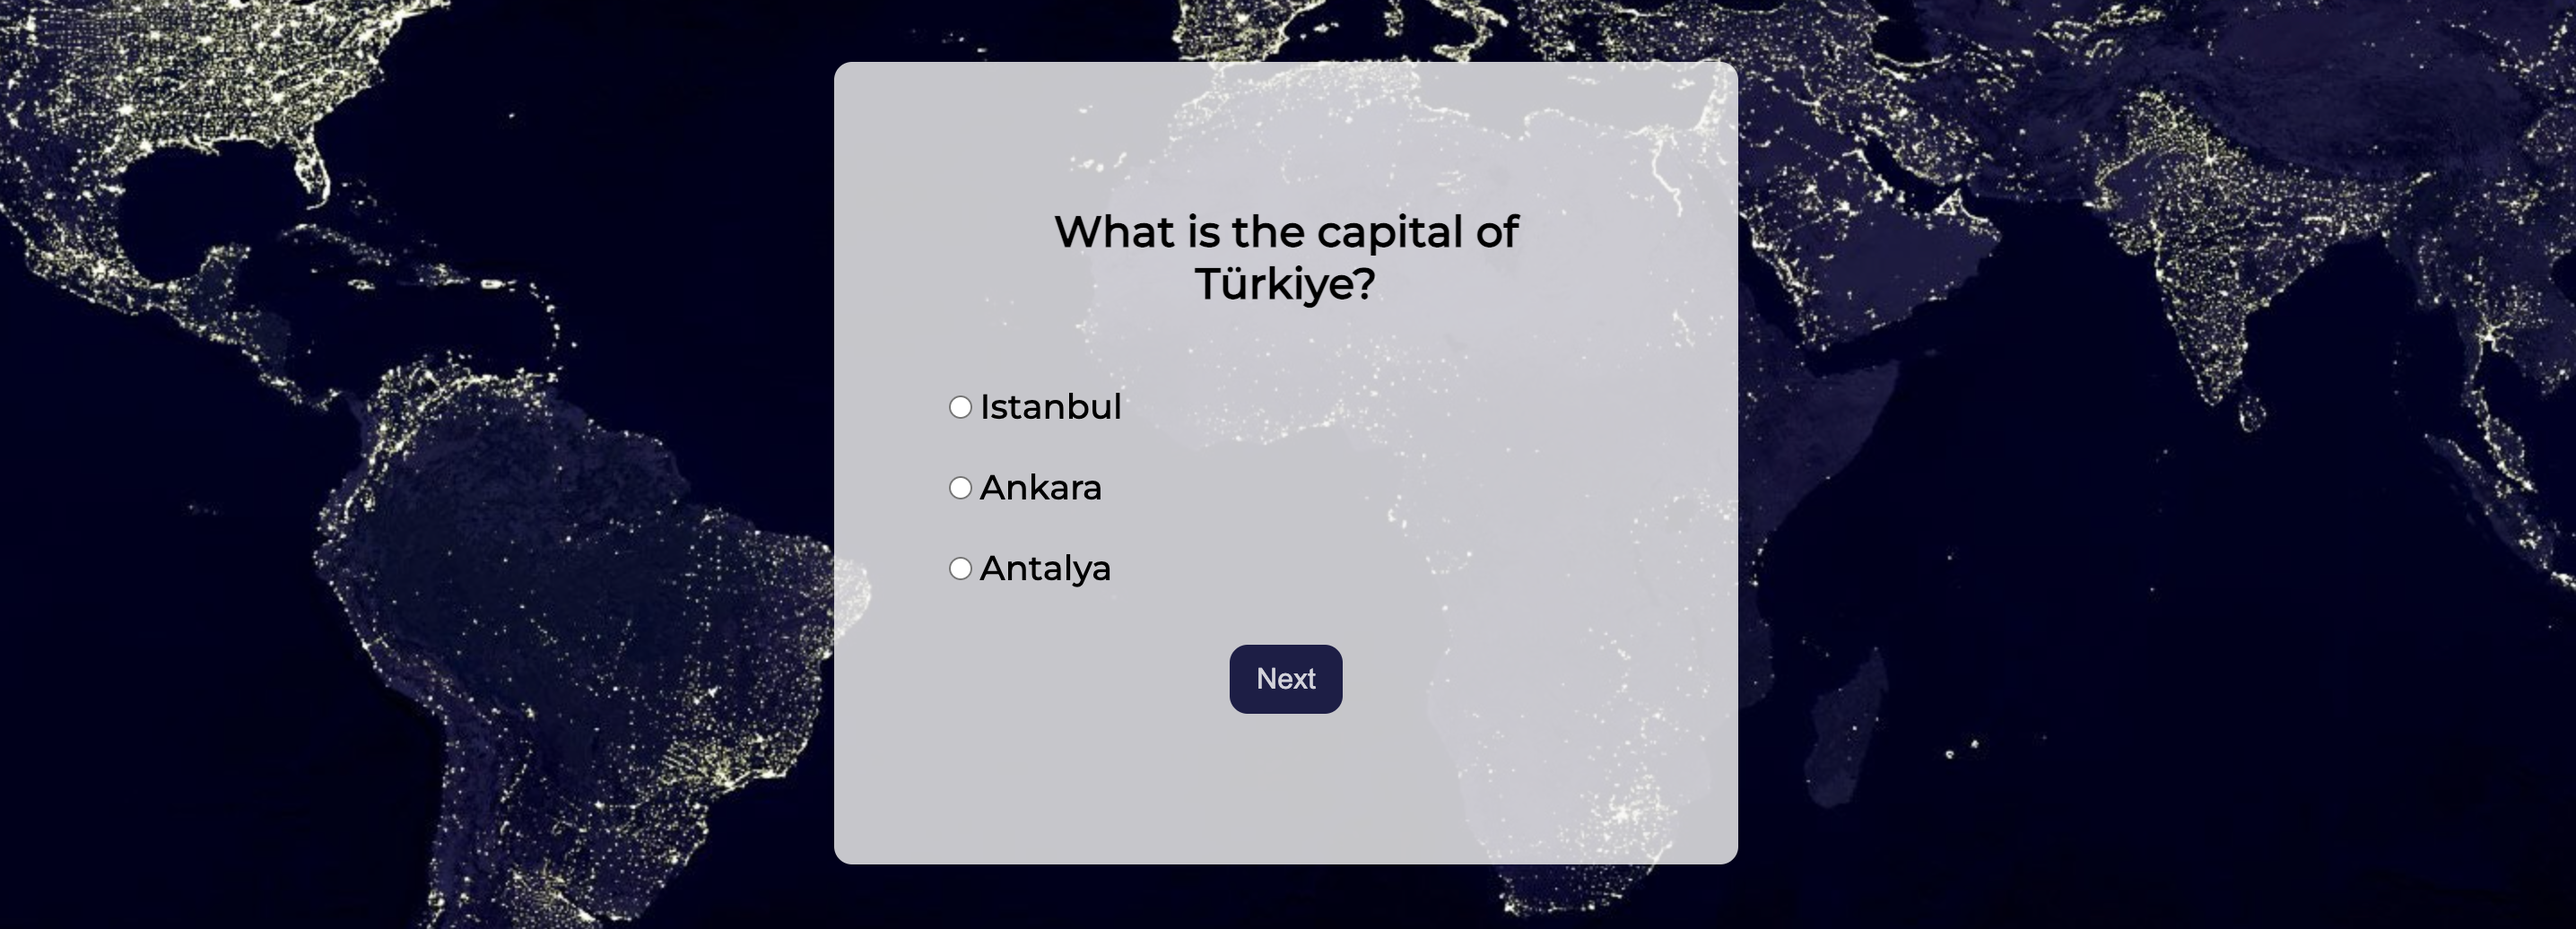
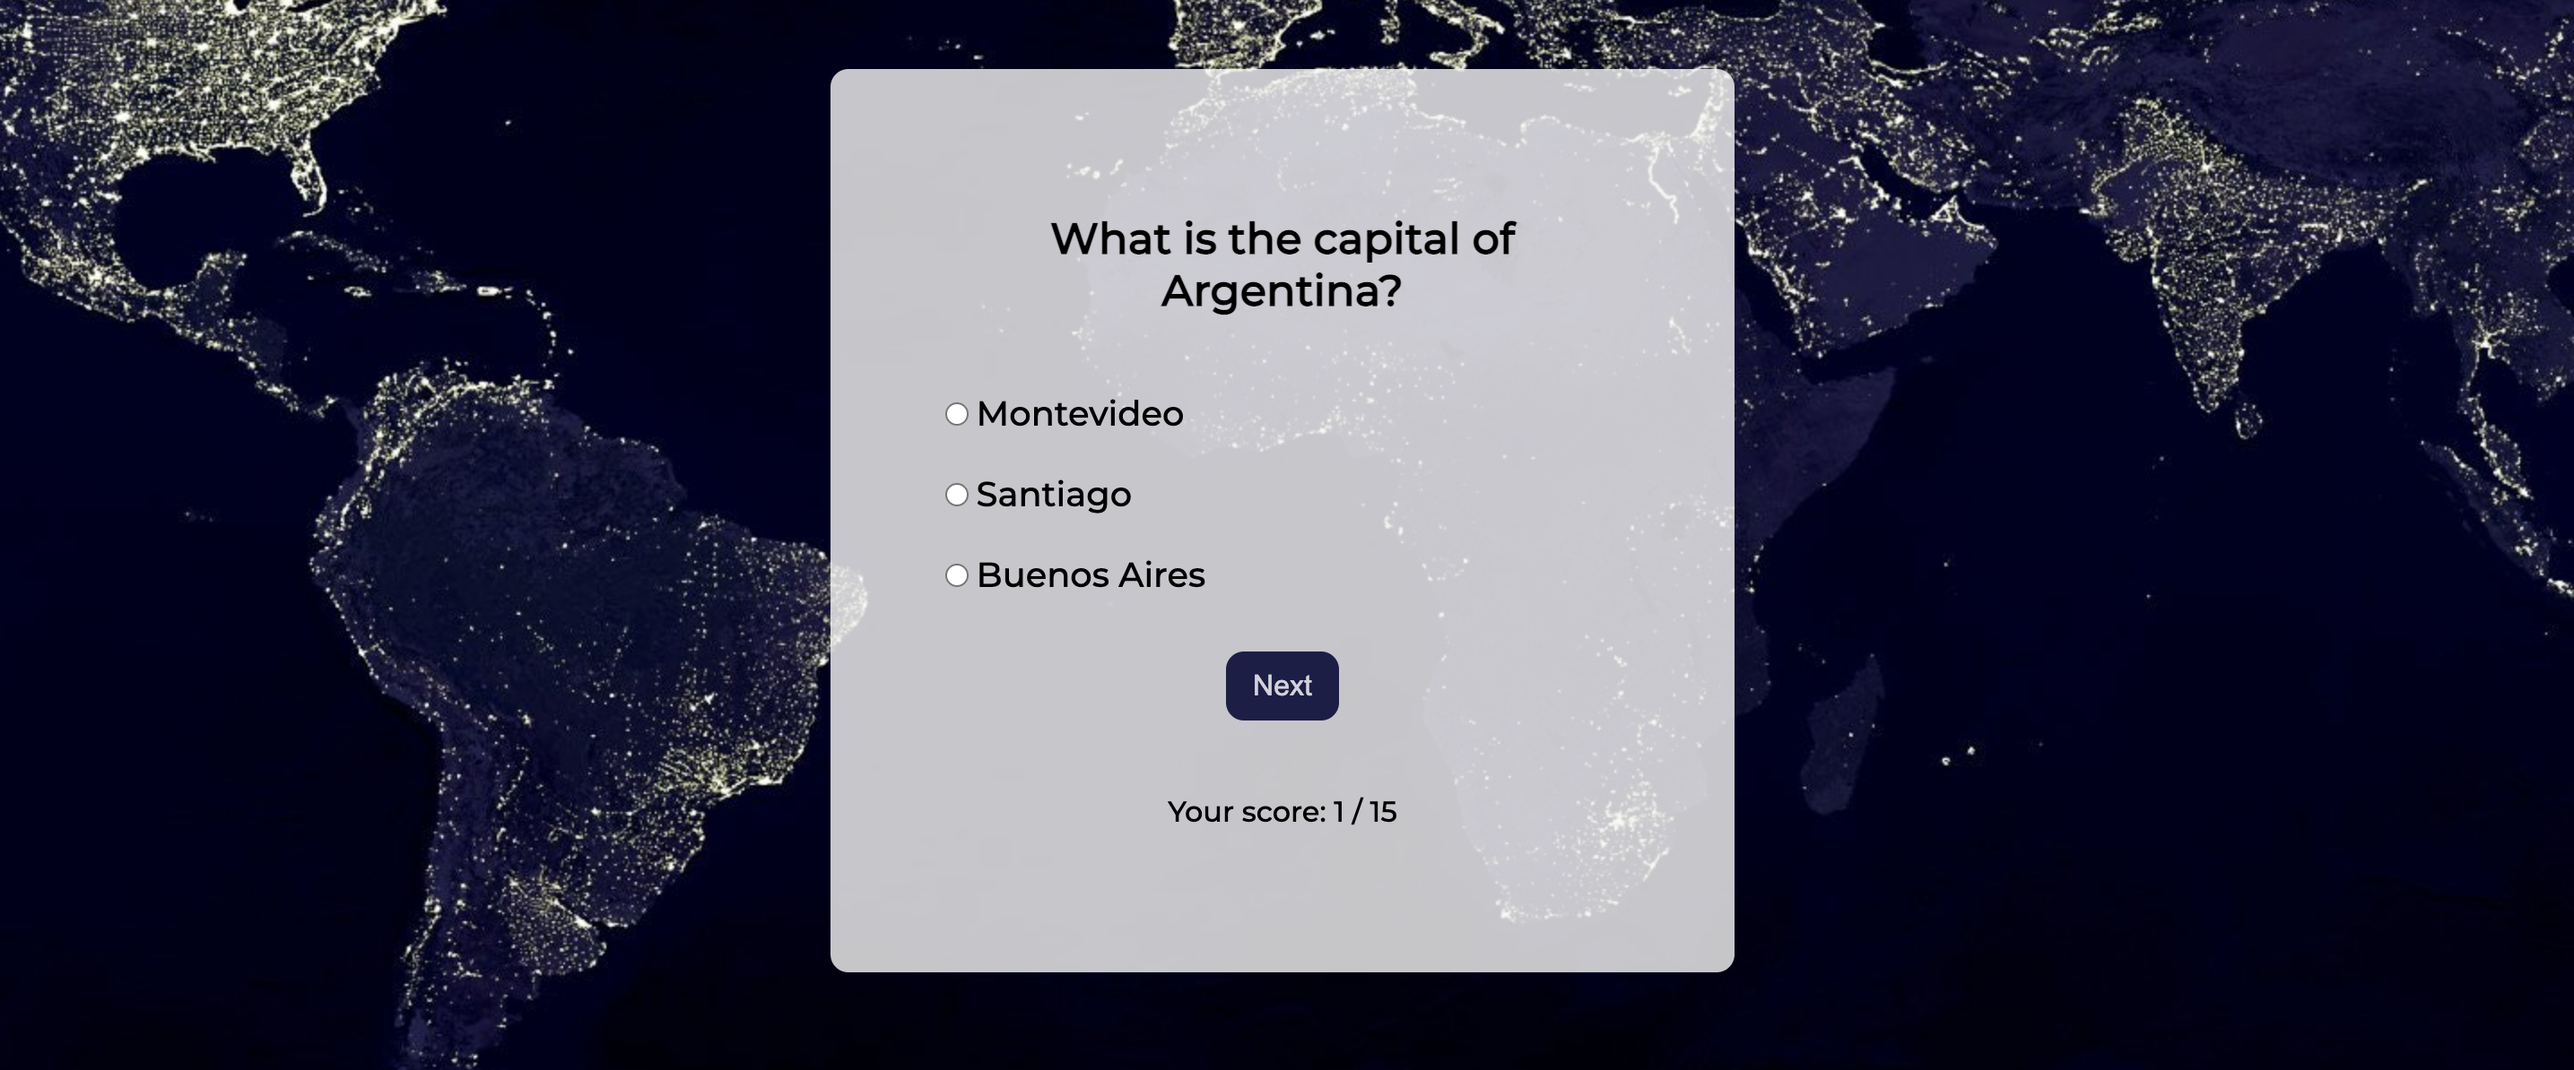
docs: add credits

diff --git a/README.md b/README.md
@@ -14,23 +14,18 @@ The web application is designed to be responsible on a range of devices.
 
 ### User stories
 
-    a. As a User, I want to understand the purpose of the site.
-    
-    b. As a User, I want to see clearly written instructions that explain what to do.
-
-    c. As a User, I want to quickly understand how to play.
-
-    d. As a User, I also want to easily navigate the website.
-
-    e. As a User, I want to see my score points.
-
-    f.  As a User, I want to understand how to play the quiz again.
+1. As a User, I want to understand the purpose of the website.
+2. As a User, I want to see clearly written instructions which explain what to do.
+3. As a User, I want to quickly understand how to play.
+4. As a User, I also want to easily navigate the web application.
+5. As a User, I want to see my score points.
+6. As a User, I want to be able to play the quiz again.
 
    
 ## User Experience Design (UXD)
-+ **Strategy Plane**. A quiz for enterntainment which provides users with the opportunity to check their knowledge of capitals.
-+ **Scope Plane**. The title of the quiz, instructions, input for username and the start button. After clicking "Start" button the user sees one question with three options at a time (which helps not to distract). There is "Next" button under under the option. The "Next" button submits the answer and opens the next question.
-+ **Structure Plane**. The introduction window contains simple clear instructions how to start and rules how to play. 
++ **Strategy Plane**. A quiz for enterntainment which also provides users with the opportunity to check their knowledge of the capitals.
++ **Scope Plane**. The title of the quiz, instructions, input for username and the start button. There is "Next" button under under the option. The "Next" button submits the answer and opens the next question. There are scores under the "Next" button. After the 15th question the user can see a panel with score points. There is also a "Play again" button which reloads the quiz.
++ **Structure Plane**. The introduction window contains simple clear instructions how to start and the rules how to play. After entering username and clicking "Start" button the user sees one question with three options at a time. The "Next" button submits the answer and opens the next question. Right under the button the user can see their score points along the way. After answering the 15th question the user can see a panel with their username and score points. There is also a "Play again" button which reloads the quiz.
 + **Skeleton Plane**. 
 ![Introduction with instructions wireframe](/docs/intro-wireframe.png)
 ![Quiz questions wireframe](/docs/quiz-wireframe.png)
@@ -49,37 +44,39 @@ Colors: *taken from the background image*
 
 ### Quiz Title
 + The Quiz Title is located at the top of the page. It gives a clear idea of what is the web application about. 
-+ The font and the color made it easy to read.
++ The font and the color make it easy to read.
 
 ![A screenshot of title](/docs/heading.png)
 
 ### Background Image
-+ The background image is a photo of the Earth at night. It helps the user to switch to...
++ The background image is a photo of the Earth at night. It helps the user to switch to set the right state of mind and to focus on the quiz topic.
 
 ![The background image](/assets/images/background-image.jpg)
 
 ### Instructions
-+ This section gives detailed instructions and asks to enter username. 
++ This section gives detailed instructions and asks users to enter their username. 
 + Users are able to start the quiz only after entering username.
 
 ![A screenshot of introduction and instructions](/docs/instructions.png)
 
 ### Quiz Questions
 + This section appears instead of instructions after users enter their username and click "Start" button.
-+ Here the user can read a question and choose the answer by taping one of the options below. 
-+ After choosing an answer and clicking "Next" button the user can see the next question.
++ Here the user can read a question and choose the answer by taping one of the options below the question. 
++ After choosing an answer and clicking "Next" button the user can see the next question and their current score points under the button.
 
 ![A screenshot of the first question of the quiz](/docs/quiz-question.png)
 
 ### Results
-+ This section shows user's username and their score points.
-+ There is also "Play again" button which enables the user to take the quiz again.
++ This section shows user's username and their final score points.
++ There is also a "Play again" button which enables the user to take the quiz again.
 
 ![A screenshot of the scores](/docs/results.png)
 
 ## Future Features
-+ Timer to limit time for the answer
++ Timer to limit time for the answer which also can help to reduce cheating
 + Save scores for returning users
++ Two levels of difficulty
++ Different feedback depending on score points
 
 ## Testing
 
@@ -99,7 +96,9 @@ Colors: *taken from the background image*
 ## Bugs
 
 #### Solved bugs
-+ score is always 0 no matter how many right answers were chosen
++ score was always 0 no matter how many right answers were chosen.
++ the function which returns value of the selected input compared it to the answer's id, not to the value itself.
++ the code was changed so now it checks if the selected input is equal to the correct answer's value.
 
 ## Validator Testing
 
@@ -121,12 +120,23 @@ Colors: *taken from the background image*
 ![A screenshot of test result on Jshint](/docs/jshint.png)
 
 
-#### Accessibilty
-
 #### Unfixed Bugs
 + No unfixed bugs
 
 ## Testing User Stories from User Experience (UX) Section
+
+1. As a User, I want to understand the purpose of the website.
++ *Upon entering the site, users are automatically greeted with a clear and easily readable title which gives and idea of what is it about.*
+2. As a User, I want to see clearly written instructions which explain what to do.
++ *At the very first panel right below the title users can read clear and simple instructions about the actions required to start the quiz.*
+3. As a User, I want to quickly understand how to play.
++ *Users can read short and simple instructions at the very first page.*
+4. As a User, I also want to easily navigate the web application.
++ *There is always only one button on the page at a time. It either starts the quiiz or proceeds to the next question.*
+5. As a User, I want to see my score points.
++ *Users can see their score along the way under the "Next" button. Also after answering all the questions users receive feedback along with the final score.*
+6. As a User, I want to be able to play the quiz again.
++ *The final panel shows results of the quiz and the "Play again" button. By clicking this button users can start the quiz again.*
 
 ## Deployment
 
@@ -168,10 +178,15 @@ Any contributions are greatly appreciated. If you have a suggestion that would m
 ## Credits
 
 #### Code
++ The code for hiding introduction panel came form this [YouTube video tutorial](https://youtu.be/79WRPIknVHs).
++ The code for writing functions that run the quiz questions came from this [YouTube video tutorial](https://youtu.be/CqddbIrEM5I).
 
 #### Content
++ All the website content was written by the developer.
 
 #### Media
 + The background image was taken from [Pexels](https://www.pexels.com/)
 
 #### Acknowledgements
++ My Mentor for continuous helpful feedback.
++ Tutor support at Code Institute for their support.
